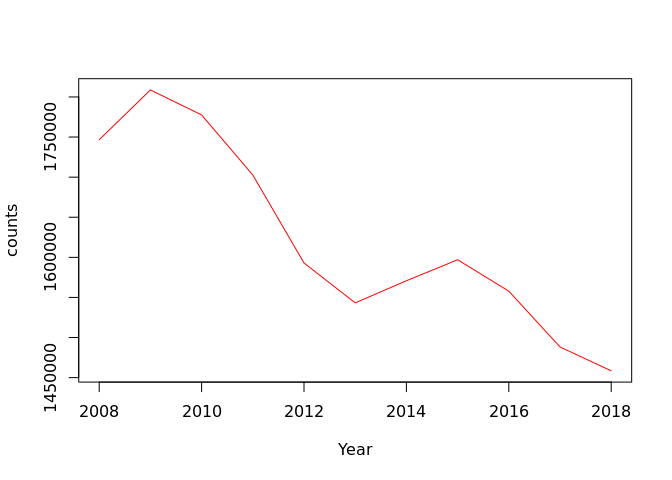
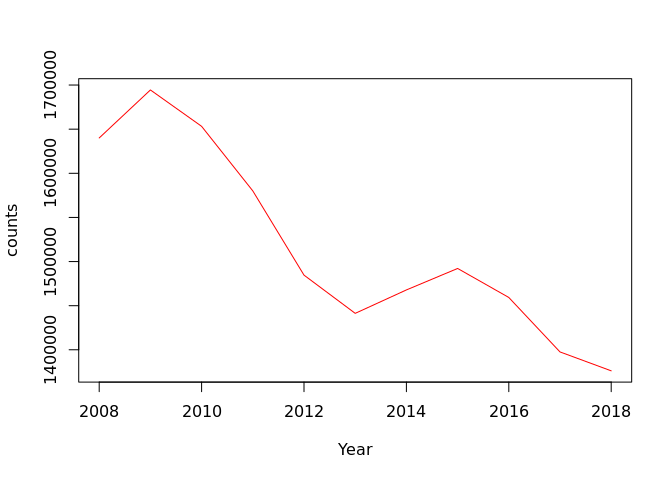
Added filter so only prosecutions are included in the example dataset

diff --git a/real_world_examples.md b/real_world_examples.md
@@ -24,6 +24,10 @@ s3 and storing the dataframe as a variable called `cases`.
 
 ``` r
 cases <- s3tools::s3_path_to_full_df("alpha-everyone/r_functions_training/prosecutions-and-convictions-2018.csv")
+
+# Filter for Magistrates Court to extract the prosecutions
+cases <- cases %>%
+  filter(`Court.Type` == "Magistrates Court")
 ```
 
 Here’s a preview of the data stored in `cases`:
@@ -40,33 +44,33 @@ head(cases)
     ## 5 2008      Q1 01: Male        01: Person 01: Juveniles 01: 10-11
     ## 6 2008      Q1 01: Male        01: Person 01: Juveniles 01: 10-11
     ##   Ethnicity        Court.Type          Offence.Type
-    ## 1       N/A       Crown Court 02 Triable either way
+    ## 1       N/A Magistrates Court    01 Indictable only
     ## 2       N/A Magistrates Court    01 Indictable only
     ## 3       N/A Magistrates Court    01 Indictable only
     ## 4       N/A Magistrates Court    01 Indictable only
-    ## 5       N/A Magistrates Court    01 Indictable only
+    ## 5       N/A Magistrates Court 02 Triable either way
     ## 6       N/A Magistrates Court 02 Triable either way
     ##                    Offence.Group                          Tried
-    ## 1   05 Criminal damage and arson       03: Tried at Crown Court
-    ## 2             02 Sexual offences                   5: Not tried
+    ## 1             02 Sexual offences                   5: Not tried
+    ## 2                     03 Robbery 01: Tried at magistrates court
     ## 3                     03 Robbery 01: Tried at magistrates court
-    ## 4                     03 Robbery 01: Tried at magistrates court
-    ## 5       07 Possession of weapons 01: Tried at magistrates court
-    ## 6 01 Violence against the person 01: Tried at magistrates court
+    ## 4       07 Possession of weapons 01: Tried at magistrates court
+    ## 5 01 Violence against the person 01: Tried at magistrates court
+    ## 6 01 Violence against the person                   5: Not tried
     ##   Plea.at.the.Crown.Court Convicted..Not.convicted
-    ## 1         01: Guilty plea            01: Convicted
-    ## 2                     N/A        02: Not convicted
-    ## 3                     N/A            01: Convicted
-    ## 4                     N/A        02: Not convicted
+    ## 1                     N/A        02: Not convicted
+    ## 2                     N/A            01: Convicted
+    ## 3                     N/A        02: Not convicted
+    ## 4                     N/A            01: Convicted
     ## 5                     N/A            01: Convicted
-    ## 6                     N/A            01: Convicted
+    ## 6                     N/A        02: Not convicted
     ##   Sentenced...Not.sentenced                          Outcome Count
-    ## 1             01: Sentenced                 07: Found guilty     1
-    ## 2         02: Not sentenced 01: Proceedings terminated early     1
-    ## 3             01: Sentenced                 07: Found guilty     6
-    ## 4         02: Not sentenced  03: Dismissed (found not guilty     1
-    ## 5             01: Sentenced                 07: Found guilty     1
-    ## 6             01: Sentenced                 07: Found guilty    10
+    ## 1         02: Not sentenced 01: Proceedings terminated early     1
+    ## 2             01: Sentenced                 07: Found guilty     6
+    ## 3         02: Not sentenced  03: Dismissed (found not guilty     1
+    ## 4             01: Sentenced                 07: Found guilty     1
+    ## 5             01: Sentenced                 07: Found guilty    10
+    ## 6         02: Not sentenced 01: Proceedings terminated early     1
 
 Let’s say we wanted to create a summary table showing the number of
 people prosecuted in different age bands. We could do:
@@ -80,34 +84,35 @@ cases_grouped <- cases %>%
 
 In the above code we are grouping the `cases` dataframe by the
 categories in the `Age.Range` column, then summarising the number of
-cases in each of those categories by summing the `Count` column. The
-bottom line uses a function from the `janitor` package to add a row
-containing the total number of cases in all categories. The resulting
-dataframe is saved as a variable called `cases_grouped`. Notice how the
-`dplyr` functions `group_by()` and `summarise()` require that the column
-names are not enclosed in quotation marks: this behaviour is known as
-non-standard evalution, and will be important later.
+prosecutions in each of those categories by summing the `Count` column.
+The bottom line uses a function from the `janitor` package to add a row
+containing the total number of prosecutions in all categories. The
+resulting dataframe is saved as a variable called `cases_grouped`.
+Notice how the `dplyr` functions `group_by()` and `summarise()` require
+that the column names are not enclosed in quotation marks: this
+behaviour is known as non-standard evalution, and will be important
+later.
 
 ``` r
 cases_grouped
 ```
 
     ##                          Age.Range   counts
-    ##                          01: 10-11     3349
-    ##                          02: 12-14   115471
-    ##                          03: 15-17   594250
-    ##                          04: 18-20  1448889
-    ##                          05: 21-24  2333910
-    ##            06: 25+ (prior to 2017) 10862991
-    ##           07: 25-29 (2017 onwards)   478691
-    ##           08: 30-39 (2017 onwards)   804998
-    ##           09: 40-49 (2017 onwards)   503630
-    ##           10: 50-59 (2017 onwards)   275788
-    ##             11: 60+ (2017 onwards)   108818
+    ##                          01: 10-11     3324
+    ##                          02: 12-14   113960
+    ##                          03: 15-17   570275
+    ##                          04: 18-20  1302589
+    ##                          05: 21-24  2131033
+    ##            06: 25+ (prior to 2017) 10209264
+    ##           07: 25-29 (2017 onwards)   447108
+    ##           08: 30-39 (2017 onwards)   758230
+    ##           09: 40-49 (2017 onwards)   477217
+    ##           10: 50-59 (2017 onwards)   261626
+    ##             11: 60+ (2017 onwards)   101554
     ##           12: Not known (Juvenile)      150
     ##              13: Not known (Adult)   195459
-    ##  14: Companies, public bodies etc.   117712
-    ##                              Total 17844106
+    ##  14: Companies, public bodies etc.   114771
+    ##                              Total 16686560
 
 What if we wanted to create several different summary tables? We could
 write a function to avoid writing this out each time. Following the
@@ -165,21 +170,21 @@ cases_grouped
 ```
 
     ##                          Age.Range    Count
-    ##                          01: 10-11     3349
-    ##                          02: 12-14   115471
-    ##                          03: 15-17   594250
-    ##                          04: 18-20  1448889
-    ##                          05: 21-24  2333910
-    ##            06: 25+ (prior to 2017) 10862991
-    ##           07: 25-29 (2017 onwards)   478691
-    ##           08: 30-39 (2017 onwards)   804998
-    ##           09: 40-49 (2017 onwards)   503630
-    ##           10: 50-59 (2017 onwards)   275788
-    ##             11: 60+ (2017 onwards)   108818
+    ##                          01: 10-11     3324
+    ##                          02: 12-14   113960
+    ##                          03: 15-17   570275
+    ##                          04: 18-20  1302589
+    ##                          05: 21-24  2131033
+    ##            06: 25+ (prior to 2017) 10209264
+    ##           07: 25-29 (2017 onwards)   447108
+    ##           08: 30-39 (2017 onwards)   758230
+    ##           09: 40-49 (2017 onwards)   477217
+    ##           10: 50-59 (2017 onwards)   261626
+    ##             11: 60+ (2017 onwards)   101554
     ##           12: Not known (Juvenile)      150
     ##              13: Not known (Adult)   195459
-    ##  14: Companies, public bodies etc.   117712
-    ##                              Total 17844106
+    ##  14: Companies, public bodies etc.   114771
+    ##                              Total 16686560
 
 If you still wanted to use the `group_by` and `summarise` functions in a
 user-defined function, then variables containing the column names can be
@@ -204,21 +209,21 @@ cases_grouped
 ```
 
     ##                          Age.Range   counts
-    ##                          01: 10-11     3349
-    ##                          02: 12-14   115471
-    ##                          03: 15-17   594250
-    ##                          04: 18-20  1448889
-    ##                          05: 21-24  2333910
-    ##            06: 25+ (prior to 2017) 10862991
-    ##           07: 25-29 (2017 onwards)   478691
-    ##           08: 30-39 (2017 onwards)   804998
-    ##           09: 40-49 (2017 onwards)   503630
-    ##           10: 50-59 (2017 onwards)   275788
-    ##             11: 60+ (2017 onwards)   108818
+    ##                          01: 10-11     3324
+    ##                          02: 12-14   113960
+    ##                          03: 15-17   570275
+    ##                          04: 18-20  1302589
+    ##                          05: 21-24  2131033
+    ##            06: 25+ (prior to 2017) 10209264
+    ##           07: 25-29 (2017 onwards)   447108
+    ##           08: 30-39 (2017 onwards)   758230
+    ##           09: 40-49 (2017 onwards)   477217
+    ##           10: 50-59 (2017 onwards)   261626
+    ##             11: 60+ (2017 onwards)   101554
     ##           12: Not known (Juvenile)      150
     ##              13: Not known (Adult)   195459
-    ##  14: Companies, public bodies etc.   117712
-    ##                              Total 17844106
+    ##  14: Companies, public bodies etc.   114771
+    ##                              Total 16686560
 
 We can make this function more general by making the total row optional:
 
@@ -245,20 +250,20 @@ cases_grouped
     ## # A tibble: 14 x 2
     ##    Age.Range                           counts
     ##    <chr>                                <int>
-    ##  1 01: 10-11                             3349
-    ##  2 02: 12-14                           115471
-    ##  3 03: 15-17                           594250
-    ##  4 04: 18-20                          1448889
-    ##  5 05: 21-24                          2333910
-    ##  6 06: 25+ (prior to 2017)           10862991
-    ##  7 07: 25-29 (2017 onwards)            478691
-    ##  8 08: 30-39 (2017 onwards)            804998
-    ##  9 09: 40-49 (2017 onwards)            503630
-    ## 10 10: 50-59 (2017 onwards)            275788
-    ## 11 11: 60+ (2017 onwards)              108818
+    ##  1 01: 10-11                             3324
+    ##  2 02: 12-14                           113960
+    ##  3 03: 15-17                           570275
+    ##  4 04: 18-20                          1302589
+    ##  5 05: 21-24                          2131033
+    ##  6 06: 25+ (prior to 2017)           10209264
+    ##  7 07: 25-29 (2017 onwards)            447108
+    ##  8 08: 30-39 (2017 onwards)            758230
+    ##  9 09: 40-49 (2017 onwards)            477217
+    ## 10 10: 50-59 (2017 onwards)            261626
+    ## 11 11: 60+ (2017 onwards)              101554
     ## 12 12: Not known (Juvenile)               150
     ## 13 13: Not known (Adult)               195459
-    ## 14 14: Companies, public bodies etc.   117712
+    ## 14 14: Companies, public bodies etc.   114771
 
 The `sum_group()` function also allows us to add any number of grouping
 columns:
@@ -273,11 +278,11 @@ head(cases_grouped)
 ```
 
     ##  Age.Range                  Offence.Group counts
-    ##  01: 10-11 01 Violence against the person    169
-    ##  01: 10-11             02 Sexual offences     69
-    ##  01: 10-11                     03 Robbery    204
-    ##  01: 10-11              04 Theft Offences    784
-    ##  01: 10-11   05 Criminal damage and arson    228
+    ##  01: 10-11 01 Violence against the person    164
+    ##  01: 10-11             02 Sexual offences     65
+    ##  01: 10-11                     03 Robbery    198
+    ##  01: 10-11              04 Theft Offences    782
+    ##  01: 10-11   05 Criminal damage and arson    225
     ##  01: 10-11               06 Drug offences      8
 
 Here’s another example: say we want to produce some plots, and want them
@@ -297,7 +302,7 @@ make_line_chart <- function(df, x_col, y_col){
 ```
 
 Let’s use the `sum_group()` and `make_line_chart()` functions to produce
-a plot of the number of cases in each year.
+a plot of the number of prosecutions in each year.
 
 ``` r
 time_series <- sum_group(df = cases, 
